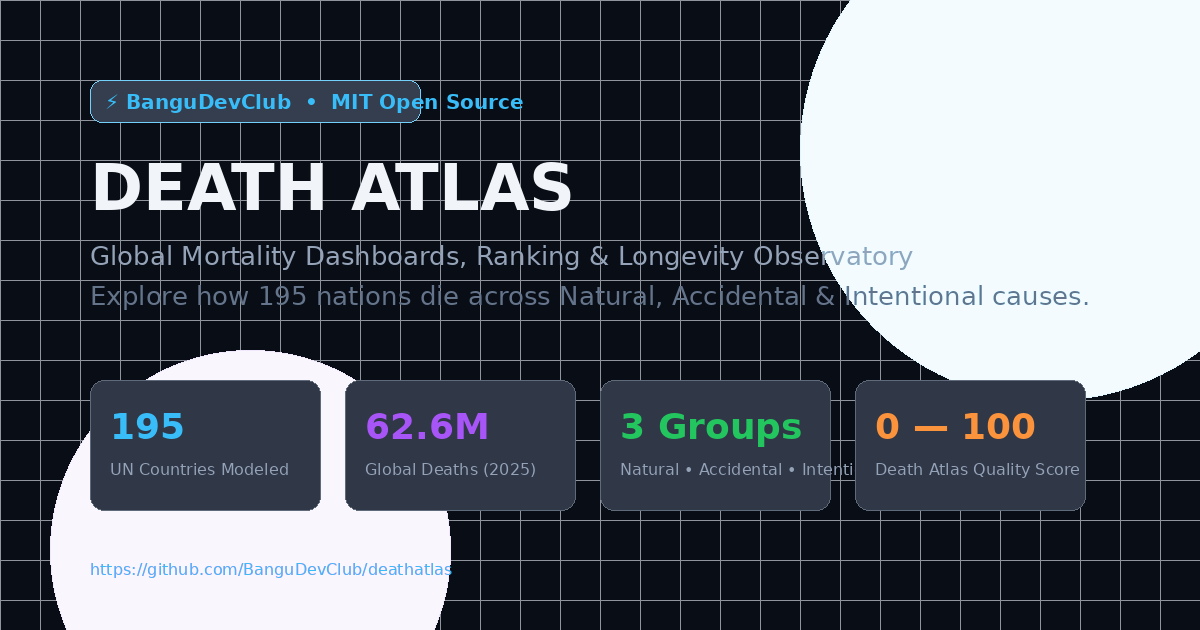
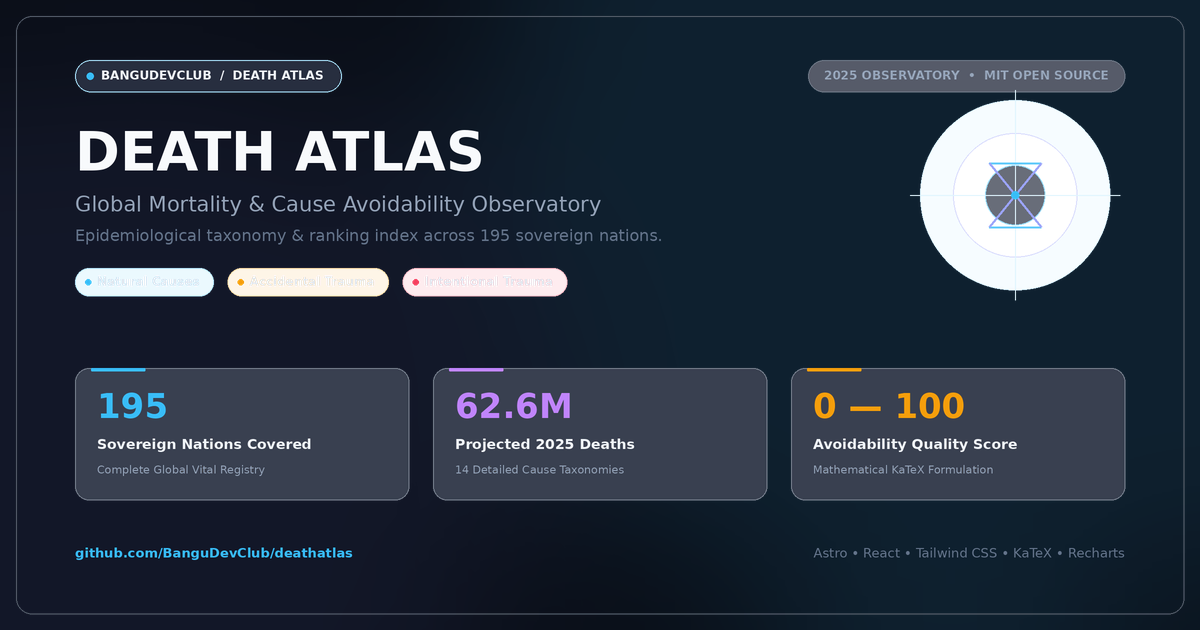
refactor: redesign asset generator script for ultra-crisp 2x OG image rendering

diff --git a/scripts/generate_assets.py b/scripts/generate_assets.py
@@ -1,10 +1,11 @@
 #!/usr/bin/env python3
 """
-Generate high-resolution OG images and favicons for Death Atlas.
+Generate high-resolution, minimal OG images and favicons for Death Atlas.
+Designed for maximum legibility, zero text-overflow, and clean modern aesthetics.
 """
 
 import os
-from PIL import Image, ImageDraw, ImageFont
+from PIL import Image, ImageDraw, ImageFont, ImageFilter
 
 os.makedirs("public", exist_ok=True)
 
@@ -27,69 +28,239 @@ favicon_svg = """<svg xmlns="http://www.w3.org/2000/svg" viewBox="0 0 100 100">
 with open("public/favicon.svg", "w") as f:
     f.write(favicon_svg)
 
-# 2. Generate OG Image (1200 x 630)
-width = 1200
-height = 630
-img = Image.new("RGBA", (width, height), (9, 13, 22, 255))
+# 2. Generate Ultra-Crisp OG Image (Render at 2x: 2400 x 1260, downscale to 1200 x 630)
+scale = 2
+final_w, final_h = 1200, 630
+W, H = final_w * scale, final_h * scale
+
+# Deep obsidian dark background
+img = Image.new("RGBA", (W, H), (9, 13, 22, 255))
+
+# Soft ambient glowing gradient background
+glow = Image.new("RGBA", (W, H), (0, 0, 0, 0))
+glow_draw = ImageDraw.Draw(glow)
+# Cyan radial glow in top right
+glow_draw.ellipse([W - int(800 * scale), -int(200 * scale), W + int(300 * scale), int(650 * scale)], fill=(56, 189, 248, 28))
+# Indigo radial glow in bottom left
+glow_draw.ellipse([-int(250 * scale), H - int(600 * scale), int(550 * scale), H + int(200 * scale)], fill=(129, 140, 248, 20))
+glow = glow.filter(ImageFilter.GaussianBlur(int(85 * scale)))
+img = Image.alpha_composite(img, glow)
+
 draw = ImageDraw.Draw(img)
 
-# Background subtle grid & gradient glow
-for x in range(0, width, 40):
-    draw.line([(x, 0), (x, height)], fill=(20, 27, 45, 120), width=1)
-for y in range(0, height, 40):
-    draw.line([(0, y), (width, y)], fill=(20, 27, 45, 120), width=1)
-
-# Subtle decorative circles
-draw.ellipse([800, -100, 1300, 400], fill=(56, 189, 248, 15), outline=(56, 189, 248, 40))
-draw.ellipse([50, 350, 450, 750], fill=(136, 57, 239, 12), outline=(136, 57, 239, 30))
-
-# Try loading standard truetype fonts, fallback to default
+# Load fonts with fallbacks
 try:
-    font_large = ImageFont.truetype("/usr/share/fonts/truetype/dejavu/DejaVuSans-Bold.ttf", 64)
-    font_subtitle = ImageFont.truetype("/usr/share/fonts/truetype/dejavu/DejaVuSans.ttf", 26)
-    font_badge = ImageFont.truetype("/usr/share/fonts/truetype/dejavu/DejaVuSans-Bold.ttf", 20)
-    font_metric_val = ImageFont.truetype("/usr/share/fonts/truetype/dejavu/DejaVuSans-Bold.ttf", 36)
-    font_metric_lbl = ImageFont.truetype("/usr/share/fonts/truetype/dejavu/DejaVuSans.ttf", 16)
+    font_title = ImageFont.truetype("/usr/share/fonts/truetype/dejavu/DejaVuSans-Bold.ttf", 54 * scale)
+    font_sub1 = ImageFont.truetype("/usr/share/fonts/truetype/dejavu/DejaVuSans.ttf", 21 * scale)
+    font_sub2 = ImageFont.truetype("/usr/share/fonts/truetype/dejavu/DejaVuSans.ttf", 16 * scale)
+    font_badge = ImageFont.truetype("/usr/share/fonts/truetype/dejavu/DejaVuSans-Bold.ttf", 12 * scale)
+    font_pill = ImageFont.truetype("/usr/share/fonts/truetype/dejavu/DejaVuSans-Bold.ttf", 12 * scale)
+    font_card_val = ImageFont.truetype("/usr/share/fonts/truetype/dejavu/DejaVuSans-Bold.ttf", 34 * scale)
+    font_card_lbl = ImageFont.truetype("/usr/share/fonts/truetype/dejavu/DejaVuSans-Bold.ttf", 14 * scale)
+    font_card_sub = ImageFont.truetype("/usr/share/fonts/truetype/dejavu/DejaVuSans.ttf", 11 * scale)
+    font_foot = ImageFont.truetype("/usr/share/fonts/truetype/dejavu/DejaVuSans.ttf", 13 * scale)
+    font_foot_bold = ImageFont.truetype("/usr/share/fonts/truetype/dejavu/DejaVuSans-Bold.ttf", 13 * scale)
 except Exception:
-    font_large = ImageFont.load_default()
-    font_subtitle = font_large
-    font_badge = font_large
-    font_metric_val = font_large
-    font_metric_lbl = font_large
+    font_title = ImageFont.load_default()
+    font_sub1 = font_title
+    font_sub2 = font_title
+    font_badge = font_title
+    font_pill = font_title
+    font_card_val = font_title
+    font_card_lbl = font_title
+    font_card_sub = font_title
+    font_foot = font_title
+    font_foot_bold = font_title
 
-# Badge: BanguDevClub • Open Source
-draw.rounded_rectangle([90, 80, 420, 122], radius=12, fill=(30, 41, 59, 230), outline=(56, 189, 248, 180), width=1)
-draw.text((105, 90), "⚡ BanguDevClub  •  MIT Open Source", font=font_badge, fill=(56, 189, 248, 255))
+# Outer subtle border framing the card
+border_margin = 16 * scale
+draw.rounded_rectangle(
+    [border_margin, border_margin, W - border_margin, H - border_margin],
+    radius=16 * scale,
+    outline=(30, 41, 59, 190),
+    width=1 * scale
+)
 
-# Title
-draw.text((90, 150), "DEATH ATLAS", font=font_large, fill=(241, 245, 249, 255))
+margin_x = 75 * scale
+margin_y = 60 * scale
 
-# Subtitle
-draw.text((90, 240), "Global Mortality Dashboards, Ranking & Longevity Observatory", font=font_subtitle, fill=(148, 163, 184, 255))
-draw.text((90, 280), "Explore how 195 nations die across Natural, Accidental & Intentional causes.", font=font_subtitle, fill=(100, 116, 139, 255))
+# -------------------------------------------------------------
+# Top Header Bar: Dynamic Badges
+# -------------------------------------------------------------
+# Left Badge: Brand + Project
+t_brand = "BANGUDEVCLUB  /  DEATH ATLAS"
+bbox_brand = font_badge.getbbox(t_brand)
+text_brand_w = bbox_brand[2] - bbox_brand[0]
+badge_h = 32 * scale
+badge_left_w = text_brand_w + (44 * scale)
+badge_left_y = margin_y
 
-# 3 Metric Cards at the bottom
-metrics = [
-    ("195", "UN Countries Modeled", (56, 189, 248)),
-    ("62.6M", "Global Deaths (2025)", (168, 85, 247)),
-    ("3 Groups", "Natural • Accidental • Intentional", (34, 197, 94)),
-    ("0 — 100", "Death Atlas Quality Score", (251, 146, 60))
+draw.rounded_rectangle(
+    [margin_x, badge_left_y, margin_x + badge_left_w, badge_left_y + badge_h],
+    radius=badge_h // 2,
+    fill=(15, 23, 42, 230),
+    outline=(56, 189, 248, 110),
+    width=1 * scale
+)
+# Glowing cyan status dot
+dot_r = 3.5 * scale
+dot_cy = badge_left_y + badge_h // 2
+dot_cx = margin_x + (15 * scale)
+draw.ellipse([dot_cx - dot_r, dot_cy - dot_r, dot_cx + dot_r, dot_cy + dot_r], fill=(56, 189, 248, 255))
+# Text
+draw.text((margin_x + (26 * scale), badge_left_y + (8 * scale)), t_brand, font=font_badge, fill=(241, 245, 249, 255))
+
+# Right Badge: Scope + License
+t_right = "2025 OBSERVATORY  •  MIT OPEN SOURCE"
+bbox_right = font_badge.getbbox(t_right)
+text_right_w = bbox_right[2] - bbox_right[0]
+badge_right_w = text_right_w + (32 * scale)
+badge_right_x = W - margin_x - badge_right_w
+
+draw.rounded_rectangle(
+    [badge_right_x, badge_left_y, badge_right_x + badge_right_w, badge_left_y + badge_h],
+    radius=badge_h // 2,
+    fill=(15, 23, 42, 180),
+    outline=(51, 65, 85, 180),
+    width=1 * scale
+)
+draw.text((badge_right_x + (16 * scale), badge_left_y + (8 * scale)), t_right, font=font_badge, fill=(148, 163, 184, 255))
+
+# -------------------------------------------------------------
+# Main Title & Subtitle Hierarchy
+# -------------------------------------------------------------
+title_y = 120 * scale
+draw.text((margin_x, title_y), "DEATH ATLAS", font=font_title, fill=(248, 250, 252, 255))
+
+sub1_y = 192 * scale
+draw.text((margin_x, sub1_y), "Global Mortality & Cause Avoidability Observatory", font=font_sub1, fill=(148, 163, 184, 255))
+
+sub2_y = 226 * scale
+draw.text((margin_x, sub2_y), "Epidemiological taxonomy & ranking index across 195 sovereign nations.", font=font_sub2, fill=(100, 116, 139, 255))
+
+# -------------------------------------------------------------
+# Three Pillar Indicator Chips (Never overflow)
+# -------------------------------------------------------------
+pill_y = 268 * scale
+pill_h = 28 * scale
+cur_pill_x = margin_x
+
+pillars = [
+    ("Natural Causes", (56, 189, 248)),
+    ("Accidental Trauma", (245, 158, 11)),
+    ("Intentional Trauma", (244, 63, 94))
 ]
 
-card_w = 230
-card_h = 130
-start_x = 90
-y_pos = 380
+for label, color in pillars:
+    bbox = font_pill.getbbox(label)
+    text_w = bbox[2] - bbox[0]
+    pill_w = text_w + (36 * scale)
+    
+    # Pill background
+    draw.rounded_rectangle(
+        [cur_pill_x, pill_y, cur_pill_x + pill_w, pill_y + pill_h],
+        radius=pill_h // 2,
+        fill=(color[0], color[1], color[2], 25),
+        outline=(color[0], color[1], color[2], 90),
+        width=1 * scale
+    )
+    # Color indicator dot
+    p_dot_cx = cur_pill_x + (13 * scale)
+    p_dot_cy = pill_y + pill_h // 2
+    p_dot_r = 3 * scale
+    draw.ellipse([p_dot_cx - p_dot_r, p_dot_cy - p_dot_r, p_dot_cx + p_dot_r, p_dot_cy + p_dot_r], fill=color)
+    
+    # Label
+    draw.text((cur_pill_x + (22 * scale), pill_y + (6 * scale)), label, font=font_pill, fill=(226, 232, 240, 255))
+    
+    cur_pill_x += pill_w + (14 * scale)
 
-for i, (val, lbl, color) in enumerate(metrics):
-    cx = start_x + i * (card_w + 25)
-    draw.rounded_rectangle([cx, y_pos, cx + card_w, y_pos + card_h], radius=14, fill=(15, 23, 42, 220), outline=(51, 65, 85, 200), width=1)
-    draw.text((cx + 20, y_pos + 25), val, font=font_metric_val, fill=color)
-    draw.text((cx + 20, y_pos + 80), lbl, font=font_metric_lbl, fill=(148, 163, 184, 255))
+# -------------------------------------------------------------
+# Right Side Graphic: Clean Modern Geometric Compass & Hourglass
+# -------------------------------------------------------------
+cx = W - margin_x - (110 * scale)
+cy = 195 * scale
 
-# Footer URL
-draw.text((90, 560), "https://github.com/BanguDevClub/deathatlas", font=font_metric_lbl, fill=(56, 189, 248, 255))
+# Soft glowing outer aura
+draw.ellipse([cx - 95 * scale, cy - 95 * scale, cx + 95 * scale, cy + 95 * scale], fill=(56, 189, 248, 12), outline=(56, 189, 248, 45), width=1 * scale)
+# Middle celestial ring
+draw.ellipse([cx - 62 * scale, cy - 62 * scale, cx + 62 * scale, cy + 62 * scale], fill=(0, 0, 0, 0), outline=(129, 140, 248, 75), width=1 * scale)
+# Inner core ring
+draw.ellipse([cx - 30 * scale, cy - 30 * scale, cx + 30 * scale, cy + 30 * scale], fill=(15, 23, 42, 160), outline=(56, 189, 248, 130), width=1 * scale)
 
-img.save("public/og-image.png", "PNG")
-print("Generated public/favicon.svg and public/og-image.png")
+# Compass subtle crosshairs
+draw.line([(cx - 105 * scale, cy), (cx + 105 * scale, cy)], fill=(56, 189, 248, 40), width=1 * scale)
+draw.line([(cx, cy - 105 * scale), (cx, cy + 105 * scale)], fill=(56, 189, 248, 40), width=1 * scale)
 
+# Hourglass geometry
+hg_w = 26 * scale
+hg_h = 32 * scale
+# Top and bottom horizontal lines
+draw.line([(cx - hg_w, cy - hg_h), (cx + hg_w, cy - hg_h)], fill=(56, 189, 248, 200), width=2 * scale)
+draw.line([(cx - hg_w, cy + hg_h), (cx + hg_w, cy + hg_h)], fill=(56, 189, 248, 200), width=2 * scale)
+# Crossing diagonals
+draw.line([(cx - hg_w, cy - hg_h), (cx + hg_w, cy + hg_h)], fill=(129, 140, 248, 200), width=2 * scale)
+draw.line([(cx + hg_w, cy - hg_h), (cx - hg_w, cy + hg_h)], fill=(129, 140, 248, 200), width=2 * scale)
+
+# Glowing center core
+draw.ellipse([cx - 4 * scale, cy - 4 * scale, cx + 4 * scale, cy + 4 * scale], fill=(56, 189, 248, 255))
+
+# -------------------------------------------------------------
+# Bottom Section: Three Clean Spacious Metric Cards
+# -------------------------------------------------------------
+card_y = 368 * scale
+card_h = 132 * scale
+
+total_available_w = W - (2 * margin_x)
+gap = 24 * scale
+card_w = (total_available_w - (2 * gap)) // 3
+
+cards_data = [
+    ("195", "Sovereign Nations Covered", "Complete Global Vital Registry", (56, 189, 248)),
+    ("62.6M", "Projected 2025 Deaths", "14 Detailed Cause Taxonomies", (192, 132, 252)),
+    ("0 — 100", "Avoidability Quality Score", "Mathematical KaTeX Formulation", (245, 158, 11))
+]
+
+for i, (val, lbl, sub, color) in enumerate(cards_data):
+    card_x = margin_x + i * (card_w + gap)
+    
+    # Card container
+    draw.rounded_rectangle(
+        [card_x, card_y, card_x + card_w, card_y + card_h],
+        radius=14 * scale,
+        fill=(15, 23, 42, 210),
+        outline=(51, 65, 85, 170),
+        width=1 * scale
+    )
+    
+    # Colored top accent line
+    draw.rounded_rectangle(
+        [card_x + (16 * scale), card_y, card_x + (70 * scale), card_y + (3 * scale)],
+        radius=1 * scale,
+        fill=color
+    )
+    
+    # Text contents with generous internal padding (pad_x = 22 * scale)
+    pad_x = card_x + (22 * scale)
+    draw.text((pad_x, card_y + (18 * scale)), val, font=font_card_val, fill=color)
+    draw.text((pad_x, card_y + (68 * scale)), lbl, font=font_card_lbl, fill=(241, 245, 249, 255))
+    draw.text((pad_x, card_y + (95 * scale)), sub, font=font_card_sub, fill=(148, 163, 184, 255))
+
+# -------------------------------------------------------------
+# Footer Row: Links & Tech Stack
+# -------------------------------------------------------------
+footer_y = 545 * scale
+draw.text((margin_x, footer_y), "github.com/BanguDevClub/deathatlas", font=font_foot_bold, fill=(56, 189, 248, 255))
+
+tech_text = "Astro • React • Tailwind CSS • KaTeX • Recharts"
+tech_bbox = font_foot.getbbox(tech_text)
+tech_w = tech_bbox[2] - tech_bbox[0]
+draw.text((W - margin_x - tech_w, footer_y), tech_text, font=font_foot, fill=(100, 116, 139, 255))
+
+# -------------------------------------------------------------
+# Downscale with LANCZOS to 1200 x 630 for Supreme Sharpness
+# -------------------------------------------------------------
+final_img = img.resize((final_w, final_h), Image.Resampling.LANCZOS)
+final_img.save("public/og-image.png", "PNG", optimize=True)
+
+print("✓ Successfully generated public/favicon.svg and public/og-image.png (1200x630, minimal, high-legibility)")
